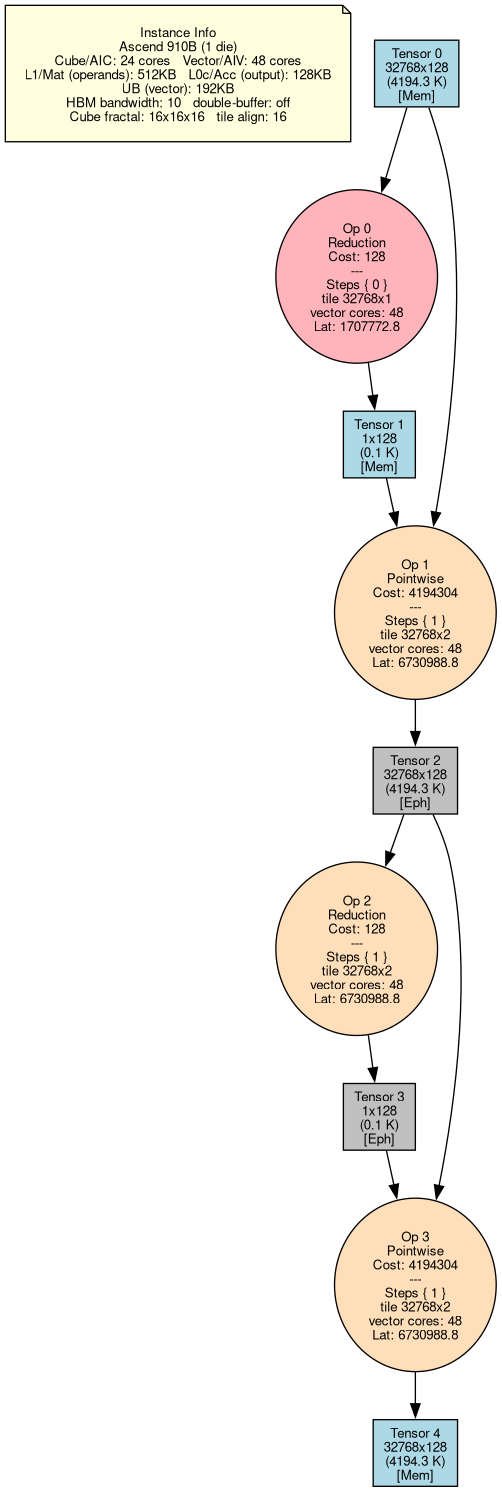
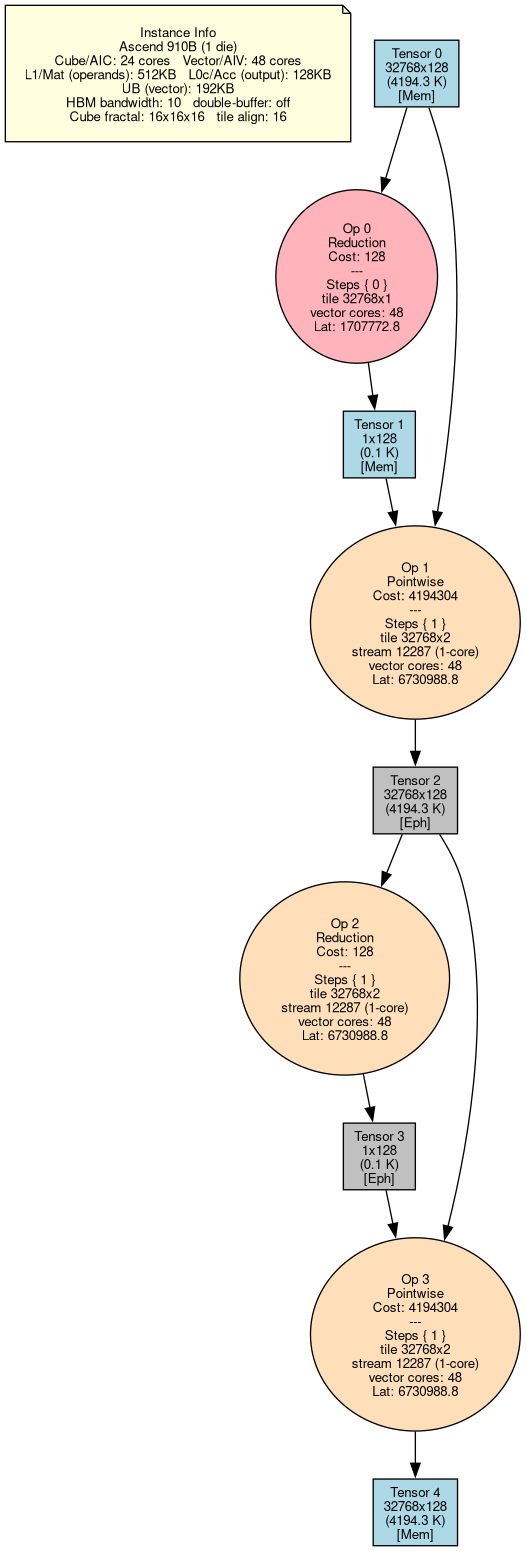
feat(910b): explicit single-core k-stream for pointwise + emit the vector stream
Correcting the previous "pure pointwise is always feasible" shortcut: it returned
true without deriving a chunk, which is NOT analogous to matmul (where seq-k is
explicitly derived and emitted). Now a vector tile that overflows UB derives an
EXPLICIT single-core k-stream, just like matmul's seq-k and the reduction chunk.

- vector_stream(cfg): the derived stream {axis, chunk}. Materialize when the
  whole tile fits UB (axis 0); else binary-search the largest UB-fitting chunk
  along the coupled reduced axis (reduction) or the LARGER tile axis (pointwise —
  shrinks the footprint most). fits_on_chip is now just `vector_stream().chunk>0`.
- vector_peak_ub gains a stream_axis param so the chunk can cap any axis (the
  reduced one for reductions, an explicit one for pointwise).
- Emit it: write_solution now fills seq_k for VECTOR subgraphs too (the chunk,
  per op; 0 = materialized). visualize.py shows "stream N (1-core)" on vector ops.
  So a streamed softmax (e.g. softmax-stream-32k -> chunk 12287) and a streamed
  pointwise now carry their granularity in the solution, like a cube matmul's k.
- test_pointwise_stream_explicit: a wide tile overflows UB and derives a chunk <
  extent that fits; a UB-fitting tile materializes (no stream).

910B 208/208; ctest 49/49.

Changed region(s): [[0.0299, 0.0, 1.0, 1.0], [0.9562, 0.8324, 1.0, 0.8941], [0.0, 0.0, 0.0299, 0.0925]]

diff --git a/src/core/subgraph.cpp b/src/core/subgraph.cpp
@@ -1012,7 +1012,7 @@ int64_t Subgraph::cube_peak_l1(const TileConfig &cfg,
 int64_t Subgraph::vector_peak_ub(const TileConfig &cfg,
                                  const FlatSet<size_t> &retained_from_prev,
                                  const FlatSet<size_t> &retain_these,
-                                 int64_t reduce_chunk) const {
+                                 int64_t reduce_chunk, int stream_axis) const {
   const auto &order = dfs_order_;
   std::vector<int> pos(prob_->num_ops(), -1);
   for (int i = 0; i < (int)order.size(); ++i) pos[order[i]] = i;
@@ -1020,13 +1020,15 @@ int64_t Subgraph::vector_peak_ub(const TileConfig &cfg,
   // Tile footprint: the reduced axis is coupled to its full extent (cfg forces
   // ws_/hs_cand there), so min(cfg,dim) gives full-extent on the reduced axis and
   // the spatial tile on the non-reduced one; a reduction output ([·,1]) collapses.
-  // Single-core streaming caps the reduced axis at reduce_chunk (the band held on
-  // one core per chunk; reused ephemerals are recomputed past the reduction).
+  // Single-core streaming caps the stream axis at reduce_chunk (the band held on
+  // one core per chunk). stream_axis defaults to the reduced axis (reduction
+  // online accumulation); a pure pointwise passes an explicit axis to stream.
+  const int ax = stream_axis ? stream_axis : reduced_axis_;
   auto tile_bytes = [&](size_t t) -> int64_t {
     int64_t tw = std::min(cfg.w, prob_->tensors[t].width);
     int64_t th = std::min(cfg.h, prob_->tensors[t].height);
-    if (reduced_axis_ == 1) tw = std::min(tw, reduce_chunk);
-    else if (reduced_axis_ == 2) th = std::min(th, reduce_chunk);
+    if (ax == 1) tw = std::min(tw, reduce_chunk);
+    else if (ax == 2) th = std::min(th, reduce_chunk);
     return tw * th * dtype_bytes(prob_->tensors[t].dtype);
   };
 
@@ -1062,6 +1064,40 @@ int64_t Subgraph::vector_peak_ub(const TileConfig &cfg,
   return peak;
 }
 
+// Derive the single-core k-stream of a vector subgraph — the analog of the
+// matmul per-op seq-k. Materialize when the whole tile fits UB; else stream the
+// largest UB-fitting chunk along the coupled reduced axis (reduction) or the
+// larger tile axis (pointwise). Peak is monotone in the chunk, so binary-search.
+Subgraph::VecStream Subgraph::vector_stream(const TileConfig &cfg,
+                                            const FlatSet<size_t> &retained_from_prev,
+                                            const FlatSet<size_t> &retain_these) const {
+  const double f = prob_->double_buffer ? 0.5 : 1.0;
+  const int64_t budget = (int64_t)((double)prob_->vec_capacity * f);
+  if (vector_peak_ub(cfg, retained_from_prev, retain_these) <= budget)
+    return {0, INT64_MAX};  // materialized — no sub-streaming
+
+  int stream_axis;
+  int64_t ext, min_chunk;
+  if (has_reduction_) {  // reduction: stream the coupled reduced axis, min 16-granule
+    stream_axis = reduced_axis_;
+    ext = (reduced_axis_ == 1) ? std::max(out_W_, reduced_extent_)
+                               : std::max(out_H_, reduced_extent_);
+    min_chunk = 16;
+  } else {  // pointwise: stream the larger tile axis (shrinks the footprint most)
+    stream_axis = (cfg.w >= cfg.h) ? 1 : 2;
+    ext = (stream_axis == 1) ? std::min(cfg.w, out_W_) : std::min(cfg.h, out_H_);
+    min_chunk = 1;
+  }
+  int64_t lo = min_chunk, hi = std::max(ext, min_chunk), best = 0;
+  while (lo <= hi) {
+    const int64_t mid = lo + (hi - lo) / 2;
+    if (vector_peak_ub(cfg, retained_from_prev, retain_these, mid, stream_axis) <= budget) {
+      best = mid; lo = mid + 1;
+    } else hi = mid - 1;
+  }
+  return {best >= min_chunk ? stream_axis : 0, best};  // chunk 0 => infeasible
+}
+
 // 910B per-core two-pool feasibility (byte-based). Each core runs one tile, so
 // the per-tile slice footprint IS the per-core footprint. Fork on cube/vector.
 bool Subgraph::fits_on_chip(const TileConfig &cfg,
@@ -1083,31 +1119,8 @@ bool Subgraph::fits_on_chip(const TileConfig &cfg,
     return derive_exec(cfg, output_K_, retained_from_prev, retain_these, nullptr) !=
            INT64_MAX;
 
-  // Vector: dynamic peak UB over the execution order, counting ephemeral bands
-  // (the reduction subgraph's [reduced_extent, h] intermediates — e.g. softmax's
-  // e — which the old boundary-only sum ignored). Double-buffer reserves half UB.
-  const double f = prob_->double_buffer ? 0.5 : 1.0;
-  const int64_t budget = (int64_t)((double)prob_->vec_capacity * f);
-  // Materialize first: hold the full reduced band on-chip (no streaming).
-  if (vector_peak_ub(cfg, retained_from_prev, retain_these) <= budget) return true;
-  // Escalate to single-core STREAMING (the vector analog of matmul seq-k):
-  // materialize when it fits, stream only when forced.
-  //  - PURE POINTWISE: no coupling, so the tile streams freely in UB-chunks down
-  //    to 1 element — ALWAYS feasible. (The tile is a per-core kernel; the cost's
-  //    eff + kernel-fill terms, not feasibility, size it to ~one kernel per core.)
-  //  - REDUCTION: the reduced axis is coupled (online accumulation), so stream
-  //    that axis at the largest chunk whose streamed peak fits.
-  if (!has_reduction_) return true;
-  const int64_t ext = (reduced_axis_ == 1) ? std::max(out_W_, reduced_extent_)
-                                           : std::max(out_H_, reduced_extent_);
-  int64_t lo = 16, hi = ext, best = 0;
-  while (lo <= hi) {  // largest feasible chunk; peak is monotincreasing in chunk
-    const int64_t mid = lo + (hi - lo) / 2;
-    if (vector_peak_ub(cfg, retained_from_prev, retain_these, mid) <= budget) {
-      best = mid; lo = mid + 1;
-    } else hi = mid - 1;
-  }
-  return best >= 16;  // feasible iff even a minimal 16-wide chunk fits
+  // Vector: feasible iff the subgraph materializes OR streams to fit UB.
+  return vector_stream(cfg, retained_from_prev, retain_these).chunk > 0;
 }
 
 bool Subgraph::is_feasible(const TileConfig &cfg,

diff --git a/test/ascend_910b_test.cpp b/test/ascend_910b_test.cpp
@@ -1255,6 +1255,32 @@ static void test_kernel_fill_one_per_core() {
     CHECK("KFILL: kernel-fill adds to the cost", with_fill > no_fill);
 }
 
+// --- explicit single-core k-stream for pointwise (the matmul-seq-k analog) ----
+// A vector tile that overflows UB is not "always feasible" by fiat — it derives
+// an EXPLICIT chunk along the larger axis (like matmul seq-k / the reduction
+// chunk). A tile that fits is materialized (no sub-streaming).
+static void test_pointwise_stream_explicit() {
+    std::cout << "[PWSTREAM] pointwise derives an explicit single-core k-stream\n";
+    Problem p;
+    p.tensors = {{8192, 256}, {8192, 256}};
+    p.ops = {{OpType::Pointwise, {0}, {1}, 8192 * 256}};
+    p.fast_memory_capacity = 1LL << 30; p.slow_memory_bandwidth = 10;
+    p.native_w = 128; p.native_h = 128; set_910b(p);
+    DAG d = DAG::build(p);
+    auto sg = Subgraph::create(p, d, {0});
+    const int64_t UB = 192 * 1024;
+    TileConfig big{8192, 256, 0};   // whole tensor as one kernel -> overflows UB
+    CHECK("PWSTREAM: large tile overflows UB", sg->vector_peak_ub(big) > UB);
+    auto s = sg->vector_stream(big);
+    CHECK("PWSTREAM: an explicit chunk is derived (streams the wider axis)",
+          s.axis == 1 && s.chunk > 0 && s.chunk < 8192);
+    CHECK("PWSTREAM: the chunk actually fits UB",
+          sg->vector_peak_ub(big, {}, {}, s.chunk, s.axis) <= UB);
+    TileConfig small{128, 128, 0};  // fits UB -> materialized, no sub-stream
+    CHECK("PWSTREAM: a UB-fitting tile materializes (no stream)",
+          sg->vector_stream(small).axis == 0);
+}
+
 int main() {
     test_dfs_order();
     test_exec_enumeration();
@@ -1266,6 +1292,7 @@ int main() {
     test_large_instances();
     test_mixed_axis_reduction_rejected();
     test_kernel_fill_one_per_core();
+    test_pointwise_stream_explicit();
     test_vector_band_ub();
     test_reduction_sink_gating();
     test_vector_streaming_reduction();

diff --git a/src/core/subgraph.h b/src/core/subgraph.h
@@ -125,10 +125,25 @@ public:
   // (softmax's e) is held only a chunk at a time (recomputed past the reduction)
   // rather than as a full [reduced_extent, h] band. INT64_MAX = no streaming
   // (materialize the full band). Lets a large-W reduction fit UB.
+  // stream_axis selects which axis reduce_chunk caps: 0 => the reduced axis (a
+  // reduction's coupled online accumulation); 1/2 => width/height, used to stream
+  // a pure-pointwise tile (which has no coupled axis — the single-core k-stream).
   int64_t vector_peak_ub(const TileConfig &cfg,
                          const FlatSet<size_t> &retained_from_prev = {},
                          const FlatSet<size_t> &retain_these = {},
-                         int64_t reduce_chunk = INT64_MAX) const;
+                         int64_t reduce_chunk = INT64_MAX,
+                         int stream_axis = 0) const;
+
+  // The derived single-core k-stream of a vector subgraph at this tiling — the
+  // analog of the matmul per-op seq-k. axis: 0 = materialized (whole tile fits
+  // UB, no sub-streaming); 1/2 = the width/height axis streamed in UB-chunks.
+  // chunk: the streaming granularity along that axis (INT64_MAX when materialized,
+  // 0 when infeasible). For a reduction the axis is the coupled reduced one; for
+  // a pure pointwise it's the larger tile axis (shrinks the footprint most).
+  struct VecStream { int axis = 0; int64_t chunk = 0; };
+  VecStream vector_stream(const TileConfig &cfg,
+                          const FlatSet<size_t> &retained_from_prev = {},
+                          const FlatSet<size_t> &retain_these = {}) const;
 
   bool is_feasible(const TileConfig &cfg,
                    const FlatSet<size_t> &retained_from_prev = {},

diff --git a/scripts/visualize.py b/scripts/visualize.py
@@ -268,15 +268,18 @@ def generate_solution_dot(input_data, output_data, out_filepath):
             unit = "cube" if op_type == "MatMul" else "vector"
             cores_str = f"\\n{unit} cores: {cores}" if cores else ""
 
-            # Single-core sequential k-tile, per matmul op (by its slot in op_order).
+            # Single-core k-stream per op (by its slot in op_order): the matmul
+            # contraction seq-k, or a vector tile's UB-chunk stream. 0 = no
+            # sub-streaming (materialized), not shown.
             seq_str = ""
             seq_k_list = output_data.get('seq_k', [])
             order_list = output_data.get('op_order', [])
-            if (op_type == "MatMul" and len(seq_k_list) > first_step
-                    and seq_k_list[first_step] is not None
+            if (len(seq_k_list) > first_step and seq_k_list[first_step] is not None
                     and len(order_list) > first_step and i in order_list[first_step]):
                 kk = seq_k_list[first_step][order_list[first_step].index(i)]
-                seq_str = f"\\nseq-k {kk} (1-core)"
+                if kk and kk > 0:
+                    tag = "seq-k" if op_type == "MatMul" else "stream"
+                    seq_str = f"\\n{tag} {kk} (1-core)"
 
             step_str = ",".join(map(str, steps))
             label = (f"Op {i}\\n{op_type}\\nCost: {cost}\\n---\\nSteps {{ {step_str} }}"

diff --git a/src/io/io.cpp b/src/io/io.cpp
@@ -267,6 +267,14 @@ void write_solution(const std::string& filename, const Solution& sol) {
                     ks.push_back((int64_t)op == sink ? cr.config.k
                                  : ((size_t)op < pk.size() ? pk[op] : 0));
                 j["seq_k"].push_back(ks);
+            } else if (!step.subgraph.has_matmul() && prob.num_vector_cores > 1 &&
+                       prob.vec_capacity > 0) {
+                // Vector single-core k-stream: one subgraph-wide chunk along the
+                // streamed axis (the matmul-seq-k analog). Emit it per op (same
+                // value); INT64_MAX (materialized) -> 0 = "no sub-streaming".
+                const auto vs = step.subgraph.vector_stream(cfg);
+                const int64_t chunk = vs.chunk == INT64_MAX ? 0 : vs.chunk;
+                j["seq_k"].push_back(std::vector<int64_t>(order.size(), chunk));
             } else {
                 j["seq_k"].push_back(nullptr);
             }